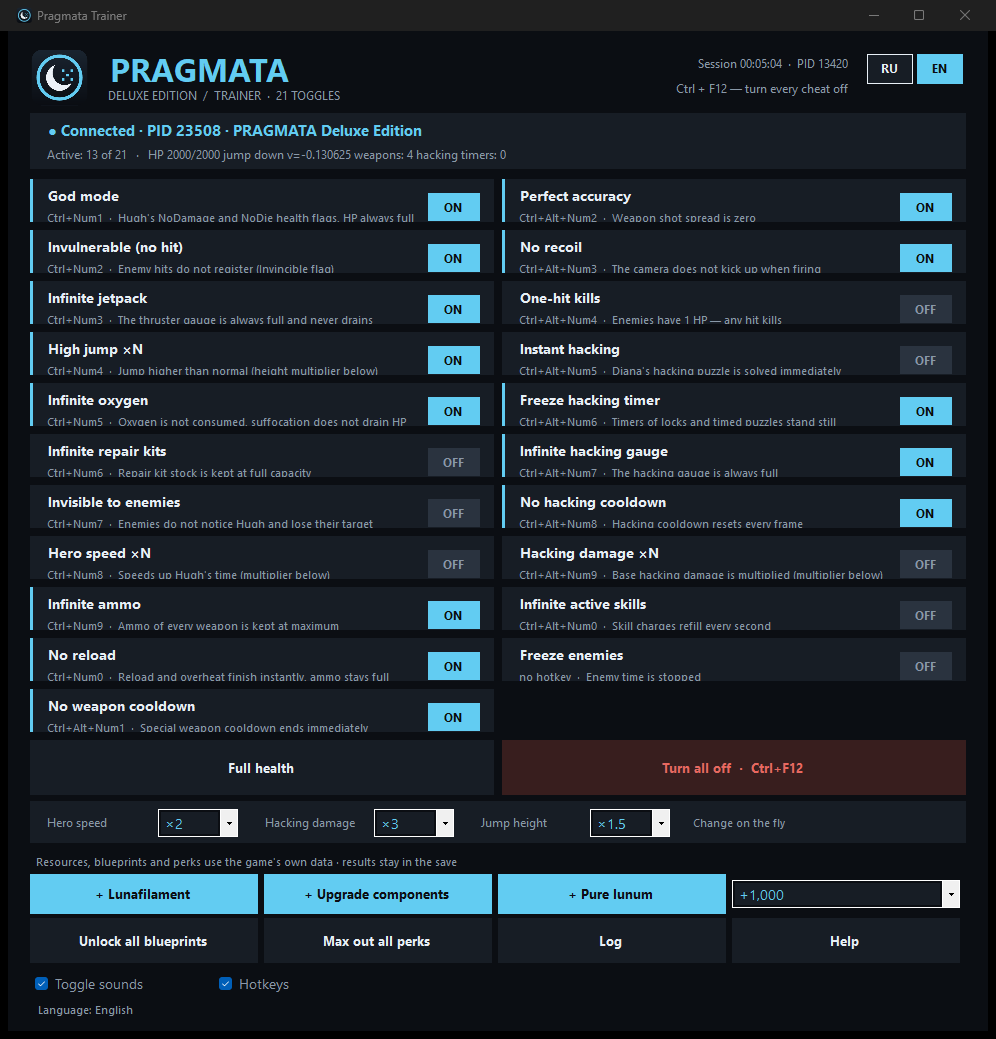
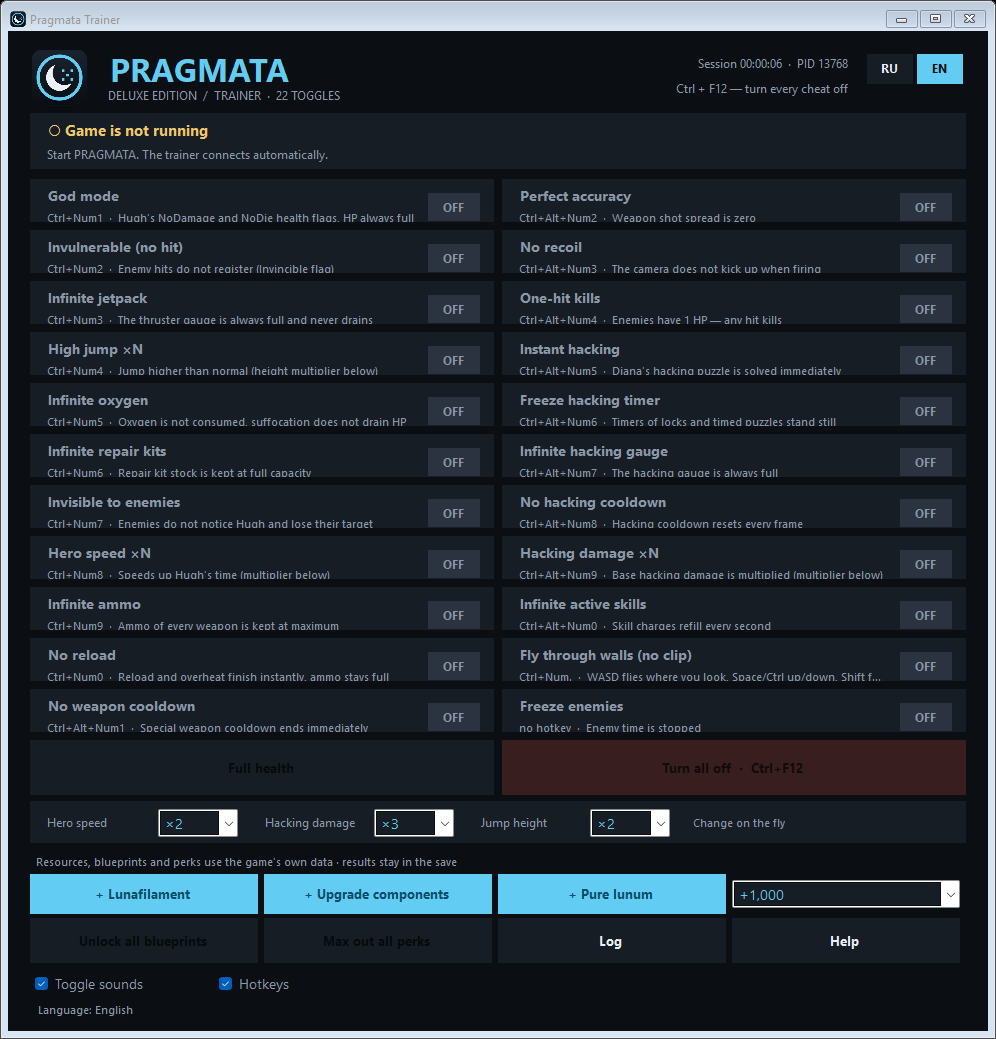
Pragmata Trainer 1.1.0: no clip

diff --git a/src/PragmataTrainer.cs b/src/PragmataTrainer.cs
@@ -14,7 +14,7 @@ using System.Threading.Tasks;
 using System.Windows.Forms;
 [assembly: AssemblyTitle("Pragmata Trainer")]
 [assembly: AssemblyProduct("Pragmata Trainer")]
-[assembly: AssemblyVersion("1.0.0.0")]
+[assembly: AssemblyVersion("1.1.0.0")]
 
 static class L {
  public static bool En;
@@ -39,7 +39,7 @@ static class L {
   {"Хакинг без перезарядки","No hacking cooldown"},{"Откат взлома сбрасывается каждый кадр","Hacking cooldown resets every frame"},
   {"Урон хакингом ×N","Hacking damage ×N"},{"Базовый урон взлома умножается (множитель ниже)","Base hacking damage is multiplied (multiplier below)"},
   {"Бесконечные активные навыки","Infinite active skills"},{"Заряды навыков восстанавливаются каждую секунду","Skill charges refill every second"},
-  {"Заморозка врагов","Freeze enemies"},{"Время врагов остановлено","Enemy time is stopped"},
+  {"Заморозка врагов","Freeze enemies"},{"Полёт сквозь стены (no clip)","Fly through walls (no clip)"},{"WASD — полёт по взгляду, пробел/Ctrl — вверх/вниз, Shift — быстрее","WASD flies where you look, Space/Ctrl up/down, Shift faster"},{"Время врагов остановлено","Enemy time is stopped"},
   {"Луноволокно","Lunafilament"},{"Компоненты для улучшения","Upgrade components"},{"Чистый лунум","Pure lunum"},
   {"ПЕРЕКЛЮЧАТЕЛЕЙ","TOGGLES"},{"Ctrl + F12 — отключить все читы","Ctrl + F12 — turn every cheat off"},
   {"○ Игра не подключена","○ Game not connected"},{"Запустите PRAGMATA и загрузите сохранение","Start PRAGMATA and load a save"},
@@ -79,7 +79,7 @@ static class L {
   new[]{"здоровье недоступно","health unavailable"},new[]{"инвентарь не найден","inventory not found"},new[]{"не найдена VM движка","engine VM not found"},
   new[]{"таблицы TDB недоступны","TDB tables unavailable"},new[]{"неожиданная версия TDB ","unexpected TDB version "},new[]{"VM ещё не создана","VM not created yet"},
   new[]{"открыто перков: ","perks unlocked: "},new[]{", прокачано: ",", maxed: "},new[]{"таймеров взлома: ","hacking timers: "},new[]{"оружие: ","weapons: "},
-  new[]{"перки: ","perks: "},new[]{"врагов: ","enemies: "},new[]{"оружия: ","weapons: "},new[]{"прыжок ","jump "},new[]{"вверх","up"},new[]{"вниз","down"},new[]{"количество","amount"},
+  new[]{"перки: ","perks: "},new[]{"врагов: ","enemies: "},new[]{"оружия: ","weapons: "},new[]{"прыжок ","jump "},new[]{"вверх","up"},new[]{"нет объектов","objects not found"},new[]{"вниз","down"},new[]{"количество","amount"},
   new[]{"значение","value"},new[]{"сбой в такте","tick failure"},new[]{"в VM нет TDB","no TDB in the VM"},new[]{"не инициализирована","not initialised"},
   new[]{"ожидание","idle"},new[]{"исключение","exception"},new[]{"запись","write"}
  };
@@ -149,6 +149,7 @@ sealed class Trainer : Form {
   new Cheat{Key="hackcool",Title="Хакинг без перезарядки",Description="Откат взлома сбрасывается каждый кадр"},
   new Cheat{Key="hackdmg",Title="Урон хакингом ×N",Description="Базовый урон взлома умножается (множитель ниже)"},
   new Cheat{Key="skills",Title="Бесконечные активные навыки",Description="Заряды навыков восстанавливаются каждую секунду"},
+  new Cheat{Key="noclip",Title="Полёт сквозь стены (no clip)",Description="WASD — полёт по взгляду, пробел/Ctrl — вверх/вниз, Shift — быстрее"},
   new Cheat{Key="freeze",Title="Заморозка врагов",Description="Время врагов остановлено"}
  };
  static readonly string[][] Currencies={new[]{"0x84C2F1F3","Луноволокно"},new[]{"0x0B30CA95","Компоненты для улучшения"},new[]{"0x7D9B1F63","Чистый лунум"}};
@@ -340,12 +341,14 @@ sealed class Trainer : Form {
  void UpdateHotkeys(){
   bool enable=Live() && keys.Checked;if(!enable){UnregisterKeys();foreach(var r in rows)r.Hotkey=HotkeyName(r.Index);return;}
   if(hotkeys.Count>0 || !IsHandleCreated)return;
-  foreach(var row in rows){int i=row.Index;row.Hotkey=HotkeyName(i);int id=100+i;if(i>=20)continue;
+  foreach(var row in rows){int i=row.Index;row.Hotkey=HotkeyName(i);int id=100+i;
+   if(row.Cheat.Key=="noclip"){if(RegisterHotKey(Handle,id,0x4002,0x6E)){CheatRow cap=row;hotkeys[id]=delegate{Toggle(cap.Cheat);};}continue;}
+   if(i>=20)continue;
    int j=i%10;uint vk=(uint)(j<9?0x61+j:0x60);uint mods=(uint)(0x4000|2|(i>=10?1:0));
    if(RegisterHotKey(Handle,id,mods,vk)){CheatRow capture=row;hotkeys[id]=delegate{Toggle(capture.Cheat);};}else{row.Hotkey+=L.T(" (занята)");Log(L.T("Горячая клавиша занята: ")+L.T(row.Cheat.Title));}}
   if(RegisterHotKey(Handle,200,0x4002,0x7B))hotkeys[200]=delegate{ClearAll();};else Log(L.T("Ctrl + F12 занята другим приложением"));
  }
- static string HotkeyName(int i){if(i>=20)return L.T("без клавиши");int j=i%10;return (i<10?"Ctrl":"Ctrl+Alt")+"+Num"+(j<9?j+1:0);}
+ static string HotkeyName(int i){if(i<Cheats.Length && Cheats[i].Key=="noclip")return "Ctrl+Num.";if(i>=20)return L.T("без клавиши");int j=i%10;return (i<10?"Ctrl":"Ctrl+Alt")+"+Num"+(j<9?j+1:0);}
  void UnregisterKeys(){if(!IsHandleCreated)return;foreach(int id in hotkeys.Keys)UnregisterHotKey(Handle,id);hotkeys.Clear();}
  protected override void WndProc(ref Message m){if(m.Msg==0x312){Action a;if(hotkeys.TryGetValue(m.WParam.ToInt32(),out a))a();}base.WndProc(ref m);}
 

diff --git a/src/PragmataBridge.cpp b/src/PragmataBridge.cpp
@@ -335,6 +335,34 @@ static int AddItem(uintptr_t inv,uint32_t id,int n,int cap=0){
 static ULONGLONG gSlowAt=0;
 
 static bool IsGameWindow(HWND w){ DWORD pid=0; GetWindowThreadProcessId(w,&pid); return pid==GetCurrentProcessId(); }
+struct NoClip{ bool on=false; uintptr_t cc=0, tr=0, gw=0; float pos[3]={0,0,0}; ULONGLONG last=0; }; static NoClip gClip;
+static bool Key(int vk){ return (GetAsyncKeyState(vk)&0x8000)!=0; }
+static void NoClipTick(uintptr_t pl,std::ostringstream& st){
+ uintptr_t ta=Obj(pl,"<TerrainAdsorber>k__BackingField"); uintptr_t go=GameObjectOf(pl); uintptr_t tr=0; if(go) Call(&tr,go,"get_Transform");
+ uintptr_t cc=Obj(pl,"<CharacterController>k__BackingField"); uintptr_t gw=ta? Obj(ta,"_GravityWork") : 0; uintptr_t pp=ta? FA(ta,"<PrevPosition>k__BackingField") : 0;
+ if(!ta || !tdb::TypeOf(tr) || !cc || !gw || !pp){ st<<"noclip: нет объектов "; return; }
+ ULONGLONG now=GetTickCount64();
+ if(!gClip.on || gClip.cc!=cc){ gClip.on=true; gClip.cc=cc; gClip.tr=tr; gClip.gw=gw; for(int i=0;i<3;i++) gClip.pos[i]=R<float>(pp+4*i); gClip.last=now; }
+ CallV(cc,"set_Enabled",false); Set<uint8_t>(gw,"_EnabledGravity",0);
+ float dt=(float)(now-gClip.last)/1000.f; if(dt>0.1f) dt=0.1f; gClip.last=now;
+ float f[3]={0,0,0}; uintptr_t cam=Obj(pl,"<PlayerCamera>k__BackingField"); uintptr_t cq=cam? FA(cam,"<CameraObjectRotation>k__BackingField") : 0;
+ if(cq){ float x=R<float>(cq),y=R<float>(cq+4),z=R<float>(cq+8),w=R<float>(cq+12); f[0]=-2.f*(x*z+w*y); f[1]=-2.f*(y*z-w*x); f[2]=-(1.f-2.f*(x*x+y*y)); }
+ float len=sqrtf(f[0]*f[0]+f[1]*f[1]+f[2]*f[2]); if(len<0.01f){ f[0]=0; f[1]=0; f[2]=1; len=1; } for(int i=0;i<3;i++) f[i]/=len;
+ float r[3]={f[2],0.f,-f[0]}; float rl=sqrtf(r[0]*r[0]+r[2]*r[2]); if(rl>0.01f){ r[0]/=rl; r[2]/=rl; }
+ bool fg=GetForegroundWindow() && IsGameWindow(GetForegroundWindow());
+ float mf=fg? (float)(Key('W')-Key('S')) : 0.f, mr=fg? (float)(Key('A')-Key('D')) : 0.f, mu=fg? (float)(Key(VK_SPACE)-Key(VK_CONTROL)) : 0.f;
+ float speed=(fg && Key(VK_SHIFT))? 24.f : 8.f;
+ for(int i=0;i<3;i++) gClip.pos[i]+=(f[i]*mf+r[i]*mr+(i==1? mu : 0.f))*speed*dt;
+ alignas(16) static float v[4]; v[0]=gClip.pos[0]; v[1]=gClip.pos[1]; v[2]=gClip.pos[2]; v[3]=0.f;
+ CallV(tr,"set_Position",(void*)v);
+ uintptr_t ov=Obj(ta,"_OriginVelocity"); uintptr_t va=ov? FA(ov,"_MovingVelocity") : 0; if(va) for(int i=0;i<3;i++) W<float>(va+4*i,0.f);
+ st<<"noclip "<<(int)gClip.pos[0]<<","<<(int)gClip.pos[1]<<","<<(int)gClip.pos[2]<<" ";
+}
+static void NoClipOff(){
+ if(gClip.cc){ CallV(gClip.cc,"set_Enabled",true); CallV(gClip.cc,"warp"); }
+ if(gClip.gw) Set<uint8_t>(gClip.gw,"_EnabledGravity",1);
+ gClip=NoClip();
+}
 static void Tick(){
  ULONGLONG now=GetTickCount64(); bool slow=now-gSlowAt>=1000; if(slow) gSlowAt=now;
  bool any=false; for(auto& kv:gOn) any|=kv.second; if(!any){ gLastTick="ожидание"; return; }
@@ -346,6 +374,7 @@ static void Tick(){
  if(gOn["nohit"]){ uintptr_t hp=HitPoint(pl); if(hp){ Keep<uint8_t>("nohit",FA(hp,"<Invincible>k__BackingField"),1); Keep<uint8_t>("nohit",FA(hp,"<NoDamage>k__BackingField"),1); } }
 
  if(gOn["jetpack"]){ uintptr_t d=Obj(pl,"<PlayerThrusterGaugeDriver>k__BackingField"); FillGauge("jetpack",d? Obj(d,"<BaseThrusterGauge>k__BackingField") : 0); }
+ if(gOn["noclip"]) NoClipTick(pl,st);
  if(gOn["highjump"]){ uintptr_t ta=Obj(pl,"<TerrainAdsorber>k__BackingField"); uintptr_t gw=ta? Obj(ta,"_GravityWork") : 0;
   uintptr_t ov=ta? Obj(ta,"_OriginVelocity") : 0; uintptr_t sw=ta? Obj(ta,"_SubStepAdditionalVelocityWork") : 0;
   uintptr_t va=ov? FA(ov,"_MovingVelocity") : 0;
@@ -421,6 +450,7 @@ static void Tick(){
 }
 
 static void SwitchOff(const std::string& k){
+ if(k=="noclip"){ NoClipOff(); return; }
  if(k=="highjump"){ gJump=JumpScale(); return; }
  if(k=="speed"){ RestoreScales(0); return; }
  if(k=="freeze"){ RestoreScales(1); return; }
@@ -428,7 +458,7 @@ static void SwitchOff(const std::string& k){
  Restore(k);
 }
 
-static const char* kKeys[]={"god","nohit","jetpack","highjump","oxygen","repair","invis","speed","ammo","noreload","nocool","accuracy","norecoil","onehit","hack","hacktimer","hackgauge","hackcool","hackdmg","skills","freeze"};
+static const char* kKeys[]={"god","nohit","jetpack","highjump","noclip","oxygen","repair","invis","speed","ammo","noreload","nocool","accuracy","norecoil","onehit","hack","hacktimer","hackgauge","hackcool","hackdmg","skills","freeze"};
 static std::string Hex(uintptr_t v){ char b[32]; sprintf_s(b,"0x%llX",(unsigned long long)v); return b; }
 
 static std::string Exec(const std::string& line){

diff --git a/README.md b/README.md
@@ -2,7 +2,7 @@
 
 [Русский](#русский) · [English](#english)
 
-Трейнер для одиночной игры **PRAGMATA** (Capcom, RE Engine, Windows x64). 21 функция, ресурсы, разблокировка чертежей, интерфейс на русском и английском с переключением на лету.
+Трейнер для одиночной игры **PRAGMATA** (Capcom, RE Engine, Windows x64). 22 функции, ресурсы, разблокировка чертежей, интерфейс на русском и английском с переключением на лету.
 
 ![Pragmata Trainer](assets/screenshot_ru.png)
 
@@ -50,6 +50,7 @@
 | Ctrl+Alt+Num8 | Хакинг без перезарядки | Откат взлома сбрасывается |
 | Ctrl+Alt+Num9 | Урон хакингом ×N | Урон взлома ×2–10 |
 | Ctrl+Alt+Num0 | Бесконечные активные навыки | Заряды навыков восстанавливаются |
+| Ctrl+Num. | Полёт сквозь стены (no clip) | WASD — полёт по взгляду камеры, пробел/Ctrl — вверх/вниз, Shift — быстрее |
 | — | Заморозка врагов | Время врагов остановлено |
 
 **Разовые действия** (результат остаётся в сохранении):
@@ -96,7 +97,7 @@ MIT. Проект не связан с Capcom.
 
 ### What it is
 
-An external trainer for the single-player **PRAGMATA** (Capcom, RE Engine, Windows x64): 21 functions, resources, blueprint unlocking, RU/EN interface with live switching. On connection it loads a small bridge `PragmataBridge.dll` into the game. The bridge finds the RE Engine virtual machine and the game's built-in type database in memory and works with the game's own classes by name: health (`HitPoint`), thruster and hacking gauges (`GaugeUnit`), weapons (`app.Weapon`), puzzles, inventory, the module printer. Actions run on the game thread every frame.
+An external trainer for the single-player **PRAGMATA** (Capcom, RE Engine, Windows x64): 22 functions, resources, blueprint unlocking, RU/EN interface with live switching. On connection it loads a small bridge `PragmataBridge.dll` into the game. The bridge finds the RE Engine virtual machine and the game's built-in type database in memory and works with the game's own classes by name: health (`HitPoint`), thruster and hacking gauges (`GaugeUnit`), weapons (`app.Weapon`), puzzles, inventory, the module printer. Actions run on the game thread every frame.
 
 Single-player only. The trainer does not touch the game's protection, networking or files on disk.
 
@@ -134,6 +135,7 @@ If the trainer reports no access to the game process, run it as administrator. L
 | Ctrl+Alt+Num8 | No hacking cooldown | Hacking cooldown resets |
 | Ctrl+Alt+Num9 | Hacking damage ×N | Hacking damage ×2–10 |
 | Ctrl+Alt+Num0 | Infinite active skills | Skill charges refill |
+| Ctrl+Num. | Fly through walls (no clip) | WASD flies where the camera looks, Space/Ctrl up/down, Shift faster |
 | — | Freeze enemies | Enemy time is stopped |
 
 **One-time actions** (results stay in the save):
